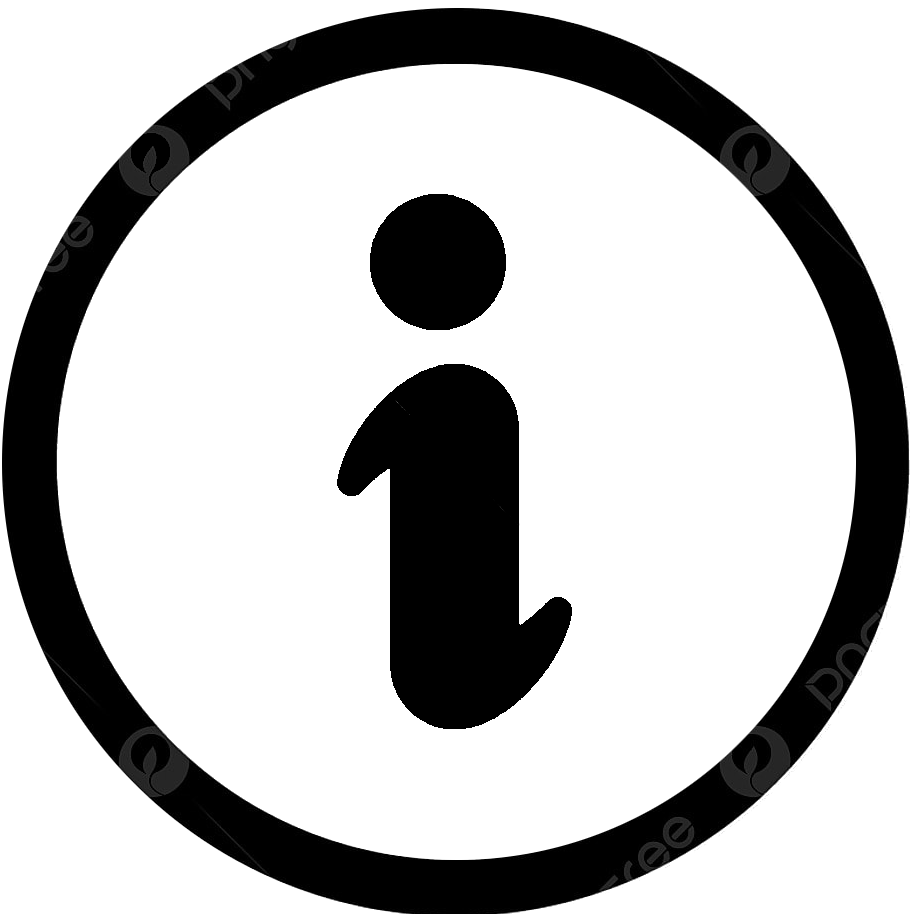
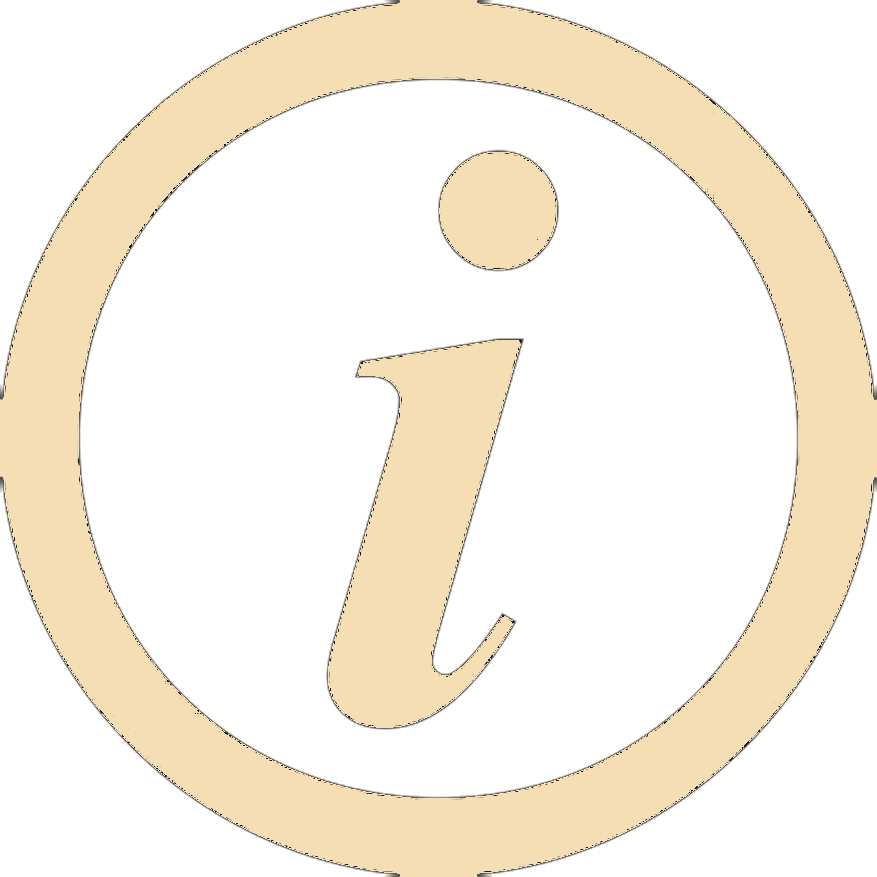
1.4.1

diff --git a/style.css b/style.css
@@ -2,9 +2,11 @@
     display: inline;
     position: relative;
     transform: translate(-50%, -50%);
+    z-index: 10;
 }
 
 .game-container {
+    z-index: 1;
     position: relative;
     margin:auto;
     top: 50%;
@@ -40,13 +42,48 @@
 }
 
 .info {
-    width: 40px;
-    height: 40px;
+    width: 30px;
+    height: 30px;
     position: relative;
     top: 50%;  /* Regola la posizione verticale della tabella */
     left: 50%; /* Regola la posizione orizzontale della tabella */
     transform: translate(-50%, -50%);
-    
+}
+
+.tooltip {
+    z-index: 1000;
+    position: absolute;
+    background-color: black;
+    color: white;
+    padding: 10px;
+    border-radius: 5px;
+    visibility: hidden;
+    opacity: 0;
+    transition: opacity 0.3s;
+    width: 600px;
+    text-align: center;
+    top: 110%;
+    left: 50%;
+    transform: translateX(-50%);
+}
+
+.tooltip::after {
+    content: "";
+    position: absolute;
+    top: 100%;
+    left: 50%;
+    border-width: 5px;
+    border-style: solid;
+    border-color: black transparent transparent transparent;
+    transform: translateX(-50%);
+}
+
+.info-container {
+    position: relative;
+    display: inline-block;
+    top: 50%;  /* Regola la posizione verticale della tabella */
+    left: 50%; /* Regola la posizione orizzontale della tabella */
+    transform: translate(-50%, -50%);
 }
 
 .scacchiera {
@@ -112,8 +149,7 @@ table {
 
 body {
     min-height: 300vh;
-    /* background-color: #f9f1e3; */
-    background-color: #cdf7c8;
+    background-color: #0f0641;
 }
 
 td {
@@ -137,6 +173,3 @@ td {
 .nero{
     background-color: rgb(63, 63, 63);
 }
-/* .stile_prova{
-    background-color: green;
-} */

diff --git a/soc-c-hess.html b/soc-c-hess.html
@@ -9,7 +9,16 @@
 <body>
     <div class="intestazione">
         <h1 class="title">SOC-C-HESS</h1>
-        <img src = images/info.png class = "info">
+        <div class="info-container">
+            <img src="images/info.png" class="info" id="infoIcon">
+            <div class="tooltip" id="tooltip">Associa ad ogni pedina un calciatore, poi segui le regole classiche del gioco degli
+                scacchi, tranne per:
+                <br>
+                <br>Il pedone può mangiare in diagonale, ma non può muoversi di due caselle alla volta.
+                <br>Il cavallo può muoversi in diagonale, ma non può saltare.
+                <br>Il re può muoversi di due caselle alla volta, ma non può mangiare.
+            </div>
+        </div>
     </div>
     <div class="game-container">
         <img src = images/soccer_field.jpg class = "background">
@@ -160,5 +169,6 @@
             <script src="script_draft.js"></script>
         </div>
     </div>
+    <script src="script_regole.js"></script>
 </body>
 </html>

diff --git a/script_regole.js b/script_regole.js
@@ -1,0 +1,16 @@
+let infoIcon = document.getElementById("infoIcon");
+let tooltip = document.getElementById("tooltip");
+let timer;
+
+infoIcon.addEventListener("mouseenter", function() {
+    timer = setTimeout(() => {
+    tooltip.style.visibility = "visible";
+    tooltip.style.opacity = "1";
+    }, 500); // Mostra dopo 1 secondo
+});
+
+infoIcon.addEventListener("mouseleave", function() {
+    clearTimeout(timer);
+    tooltip.style.visibility = "hidden";
+    tooltip.style.opacity = "0";
+});
